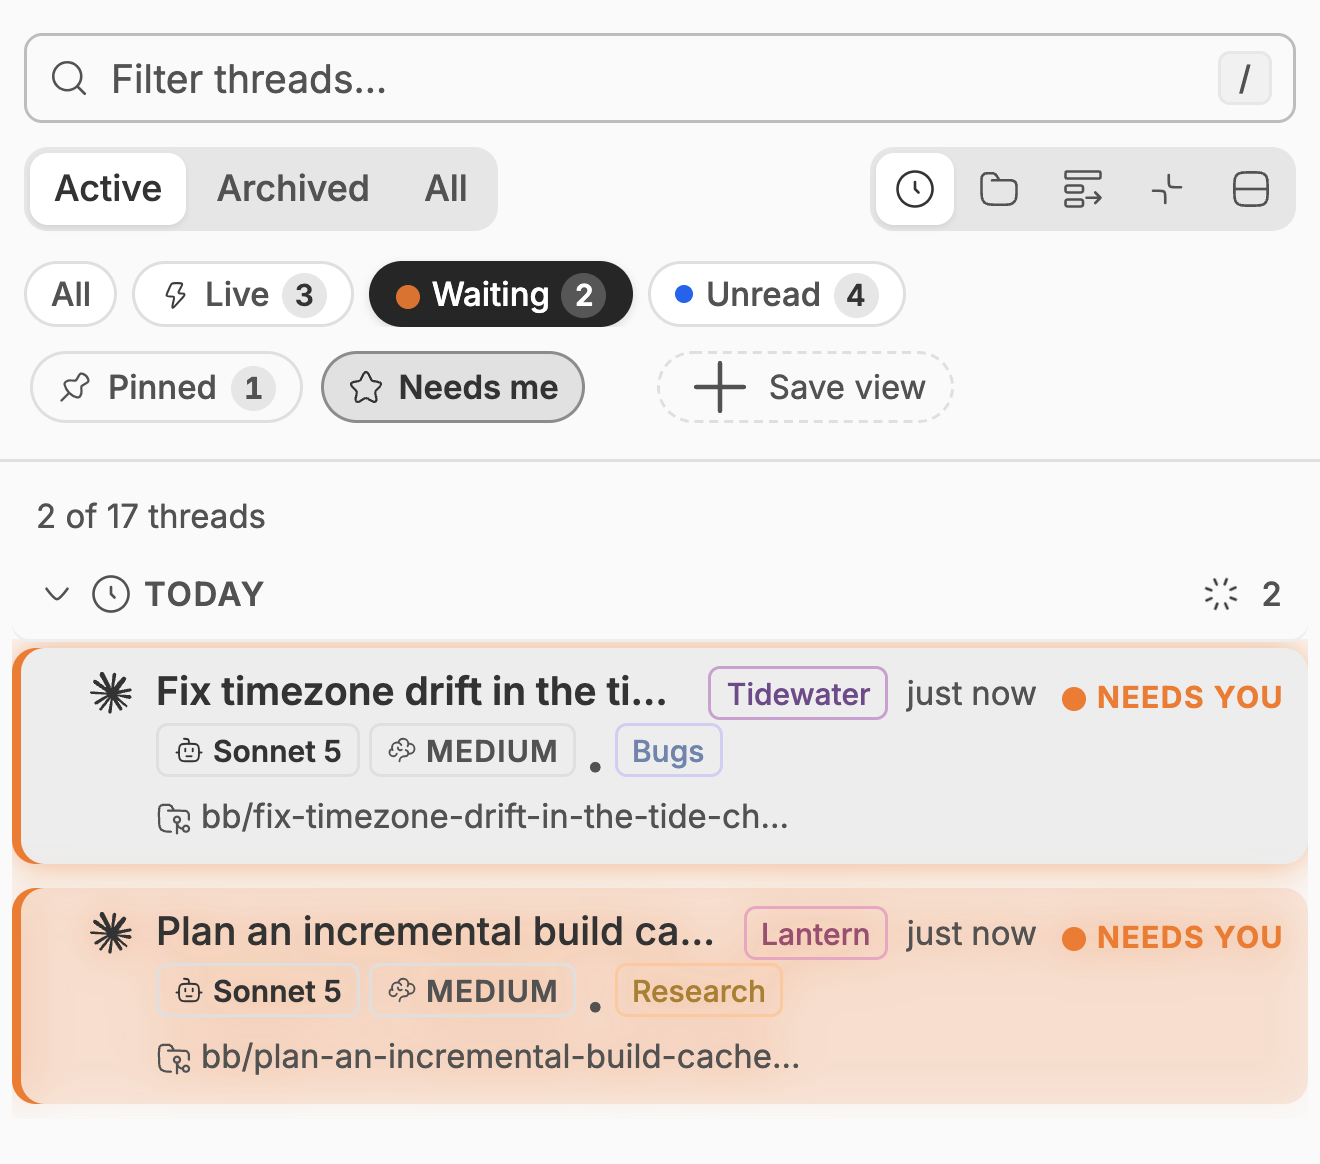
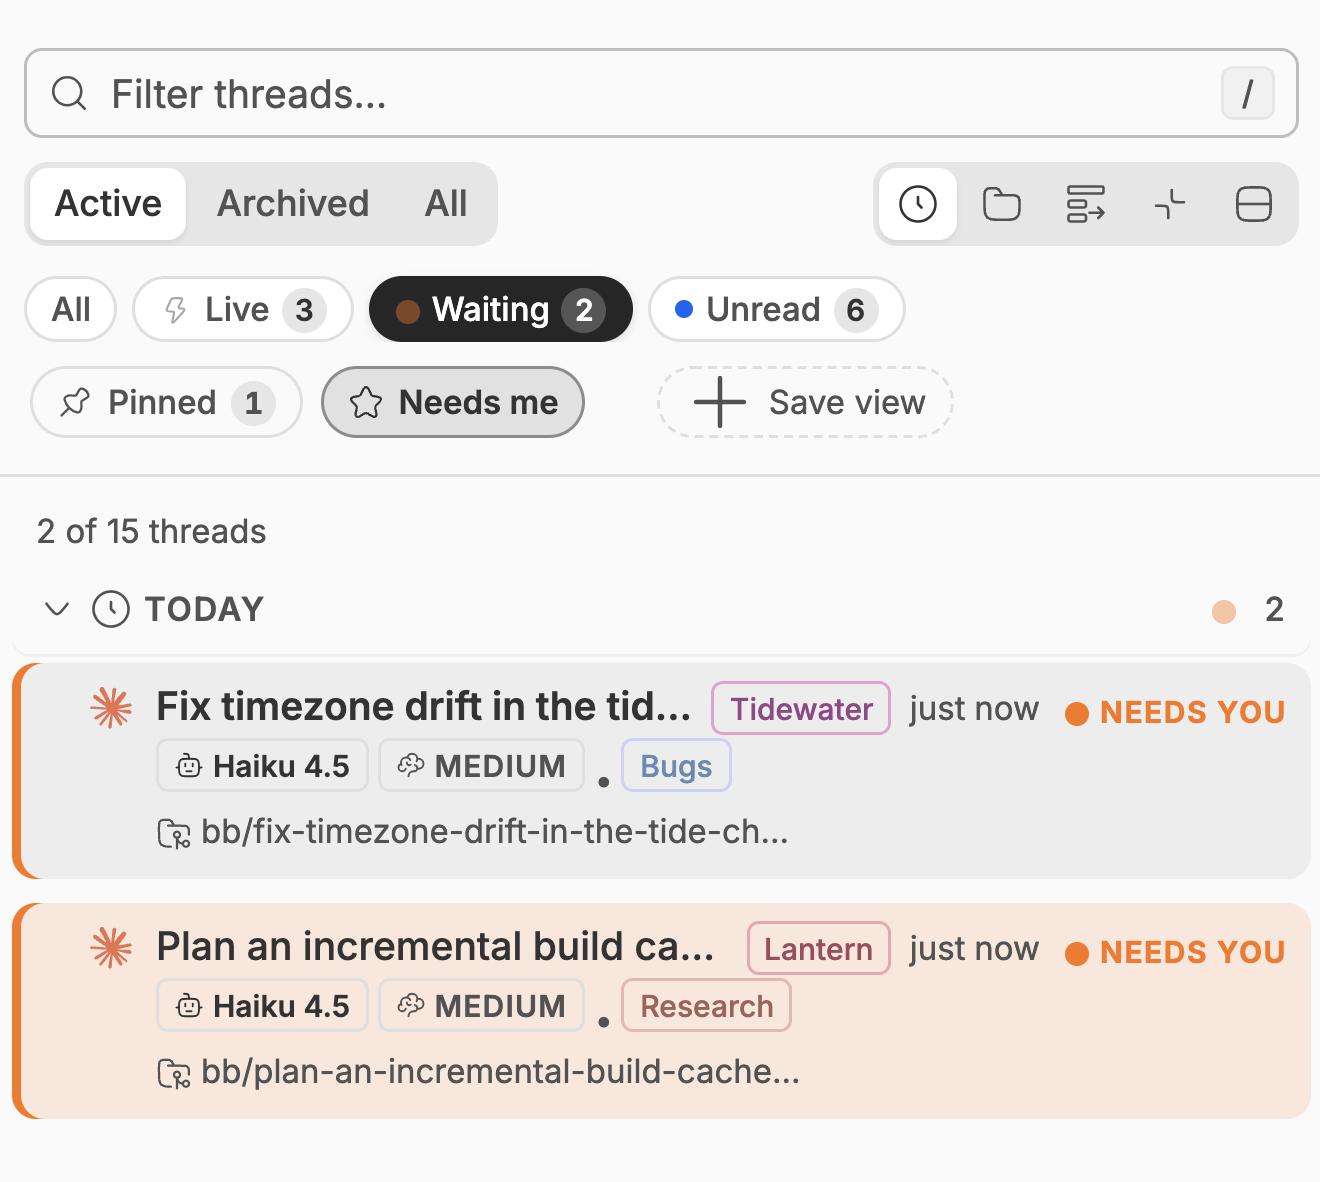
docs: refresh the README screenshots
The rail screenshots showed a live user's own projects and threads, and
predated the 0.5.1 and 0.5.2 changes to the sidebar toggle and BB's
footer in the rail. Every shot is retaken from an isolated BB instance
seeded with fictional projects and real agent threads, at 2x or 3x.

- Add PNG rail captures (desktop, labelled and mobile drawer) and drop
  the old WebP ones.
- Remove the toggle-alignment crops from #10; nothing referenced them,
  and the PR shows them from the contributor's fork.
- Fold the rail's detailed behaviour into a collapsible block, note the
  rail's host stylesheet and render-count tests in Development, and
  open an Unreleased section in the changelog.

diff --git a/README.md b/README.md
@@ -20,7 +20,7 @@ needs a decision hides at the bottom of the list.
 
 <br>
 
-<img src="docs/screenshots/hero.png" alt="Radar's thread list beside an open thread, with two threads needing input, one working and one finished but unread" width="900">
+<img src="docs/screenshots/hero.png" alt="Radar's thread list beside an open thread waiting for approval: two threads need input, one runs a background command, one is working and one has failed" width="900">
 
 </div>
 
@@ -129,20 +129,20 @@ to mark it read or archive it; each direction's action is a setting.
 <div align="center">
 <table>
 <tr>
-<td align="center"><img src="docs/screenshots/families.png" alt="Today group with needs-you, working, failed and finished rows, one expanded family and one folded family" width="440"><br><sub><b>Attention states and nested families</b></sub></td>
-<td align="center"><img src="docs/screenshots/hover-card.png" alt="Peek card beside a working thread, showing its goal, model, section, branch and context use" width="440"><br><sub><b>Hover peek card</b></sub></td>
+<td align="center"><img src="docs/screenshots/families.png" alt="Today group with needs-you, background-command, failed and finished rows, one expanded family and one folded family" width="440"><br><sub><b>Attention states and nested families</b></sub></td>
+<td align="center"><img src="docs/screenshots/hover-card.png" alt="Peek card beside a thread running a background command, showing its goal, model, section, branch and context use" width="440"><br><sub><b>Hover peek card</b></sub></td>
 </tr>
 <tr>
 <td align="center"><img src="docs/screenshots/group-by-project.png" alt="Threads grouped under Tidewater and Lantern project headers" width="440"><br><sub><b>Grouped by project</b></sub></td>
 <td align="center"><img src="docs/screenshots/group-by-section.png" alt="Threads grouped under Bugs and Research section headers" width="440"><br><sub><b>Grouped by section</b></sub></td>
 </tr>
 <tr>
-<td align="center"><img src="docs/screenshots/filters-smart-views.png" alt="Waiting status chip active beside a saved smart view named Needs me, showing 2 of 17 threads" width="440"><br><sub><b>Status chips and a saved smart view</b></sub></td>
+<td align="center"><img src="docs/screenshots/filters-smart-views.png" alt="Waiting status chip active beside a saved smart view named Needs me, showing 2 of 15 threads" width="440"><br><sub><b>Status chips and a saved smart view</b></sub></td>
 <td align="center"><img src="docs/screenshots/bulk-select.png" alt="Three selected threads and the bulk bar with Archive, Pin and Read" width="440"><br><sub><b>Multi-select and bulk actions</b></sub></td>
 </tr>
 <tr>
 <td align="center"><img src="docs/screenshots/compact.png" alt="The same list in compact density" width="440"><br><sub><b>Compact density</b></sub></td>
-<td align="center"><img src="docs/screenshots/context-menu.png" alt="Right-click menu on a thread, with Move to section open" width="440"><br><sub><b>Right-click menu</b></sub></td>
+<td align="center"><img src="docs/screenshots/context-menu.png" alt="Right-click menu on a thread, with its Move to section choices" width="440"><br><sub><b>Right-click menu</b></sub></td>
 </tr>
 <tr>
 <td align="center"><img src="docs/screenshots/nav-more.png" alt="Radar navigation with Skills and Automations moved into More" width="440"><br><sub><b>Navigation with More</b></sub></td>
@@ -207,6 +207,9 @@ server rail; BB's footer keeps its mobile row layout next to it. Tooltips
 and the labelled rail are desktop-only. Resize the sidebar with BB's normal
 handle to give the thread list more room.
 
+<details>
+<summary><b>Project scope, tooltips, keyboard and more</b></summary>
+
 - **Project scope.** Below the destinations, every project with an active
   thread gets a coloured monogram tile, most recently active first; an
   amber dot marks a project with a thread waiting on you. Click a tile and
@@ -244,7 +247,9 @@ handle to give the thread list more room.
 - **Mobile heading controls** keep 44px touch targets, and the scoped
   project heading always shows its clear icon.
 
-<p align="center"><img src="docs/screenshots/rail-desktop.webp" width="420" alt="Radar Sidebar with Navigation rail enabled beside its thread list"></p>
+</details>
+
+<p align="center"><img src="docs/screenshots/rail-desktop.png" width="360" alt="Radar Sidebar with Navigation rail enabled: destinations, project tiles with waiting dots, and BB's footer controls in the rail beside the thread list"></p>
 
 ### Labelled rail (experimental, off by default)
 
@@ -263,8 +268,14 @@ sidebar. This integration was live-checked on BB 0.45.1 nightly, with tests
 and typechecking against SDK 0.5.29. Earlier rail prototypes were checked
 on BB 0.44.1 and 0.45.0; those runtimes have not been rerun for this integration.
 
-<p align="center"><img src="docs/screenshots/rail-wide.webp" width="420" alt="The optional labelled rail with BB’s footer actions"></p>
-<p align="center"><img src="docs/screenshots/rail-mobile.webp" width="240" alt="The project rail beside the thread list in the mobile drawer"></p>
+<div align="center">
+<table>
+<tr>
+<td align="center"><img src="docs/screenshots/rail-wide.png" width="440" alt="The optional labelled rail, with labelled destinations, project rows and BB’s footer actions"><br><sub><b>Labelled rail</b></sub></td>
+<td align="center"><img src="docs/screenshots/rail-mobile.png" width="240" alt="The project rail beside the thread list in the mobile drawer"><br><sub><b>Mobile drawer</b></sub></td>
+</tr>
+</table>
+</div>
 
 ## Compatibility notes
 
@@ -379,7 +390,8 @@ server.ts               the settings the frontend reads; no storage, no CLI
 app.tsx                 registers the thread-list and navigation slots
 app.css                 styles on BB theme tokens, behind the radar- prefix
 components/radar/       the list, rows, nav, menus, peek card and smart views
-components/radar/*.ts   grouping hook, time bucketing, nav placement, model cache
+components/radar/*.ts   grouping hook, time bucketing, nav placement, model cache,
+                        and the styles the rail applies to BB's sidebar while mounted
 lib/swipe.ts            swipe actions and gesture math, shared with server.ts
 components/storage.ts   one-time migration of codex-sidebar: preferences
 components/ui/          vendored BB UI primitives
@@ -391,8 +403,9 @@ docs/                   logo and screenshots
 **Tests** cover time bucketing and nav placement as plain functions, the
 rendered list through BB's plugin test harness (`renderSlot` with seeded
 sidebar threads), saved-view validation, preference migration, execution-cache
-refreshes and completion timers. Static guards over `app.css` cover cascade
-mistakes jsdom cannot reproduce.
+refreshes, completion timers, and render counts, so a sidebar update re-renders
+only the rows that changed. Static guards over `app.css` and the rail's host
+stylesheet cover cascade mistakes jsdom cannot reproduce.
 The test setup uses jsdom's `localStorage` explicitly, including on Node 26,
 whose native storage global otherwise shadows it without a backing file.
 

diff --git a/CHANGELOG.md b/CHANGELOG.md
@@ -4,6 +4,8 @@ All notable changes to Radar Sidebar are documented here. The format follows
 [Keep a Changelog](https://keepachangelog.com/en/1.1.0/), and the project uses
 [Semantic Versioning](https://semver.org/).
 
+## Unreleased
+
 ## 0.5.2 - 2026-10-04
 
 ### Fixed
